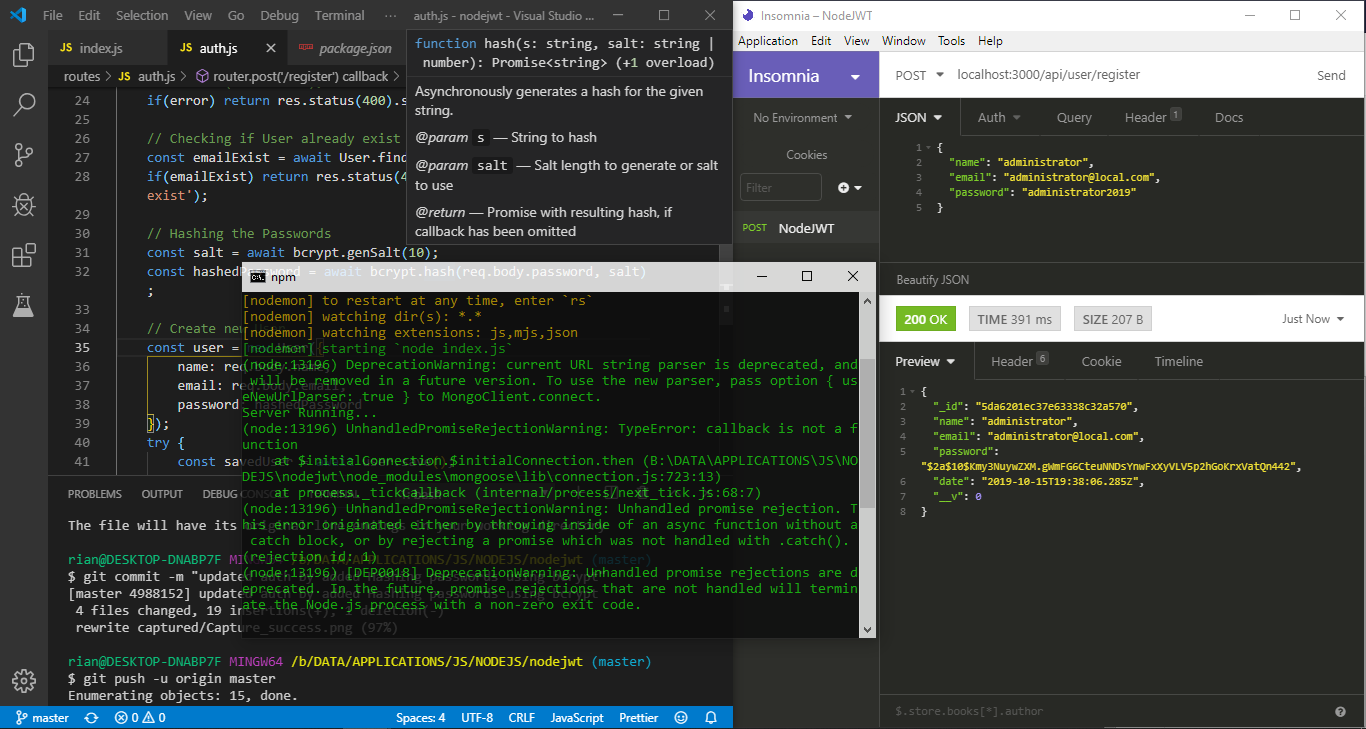
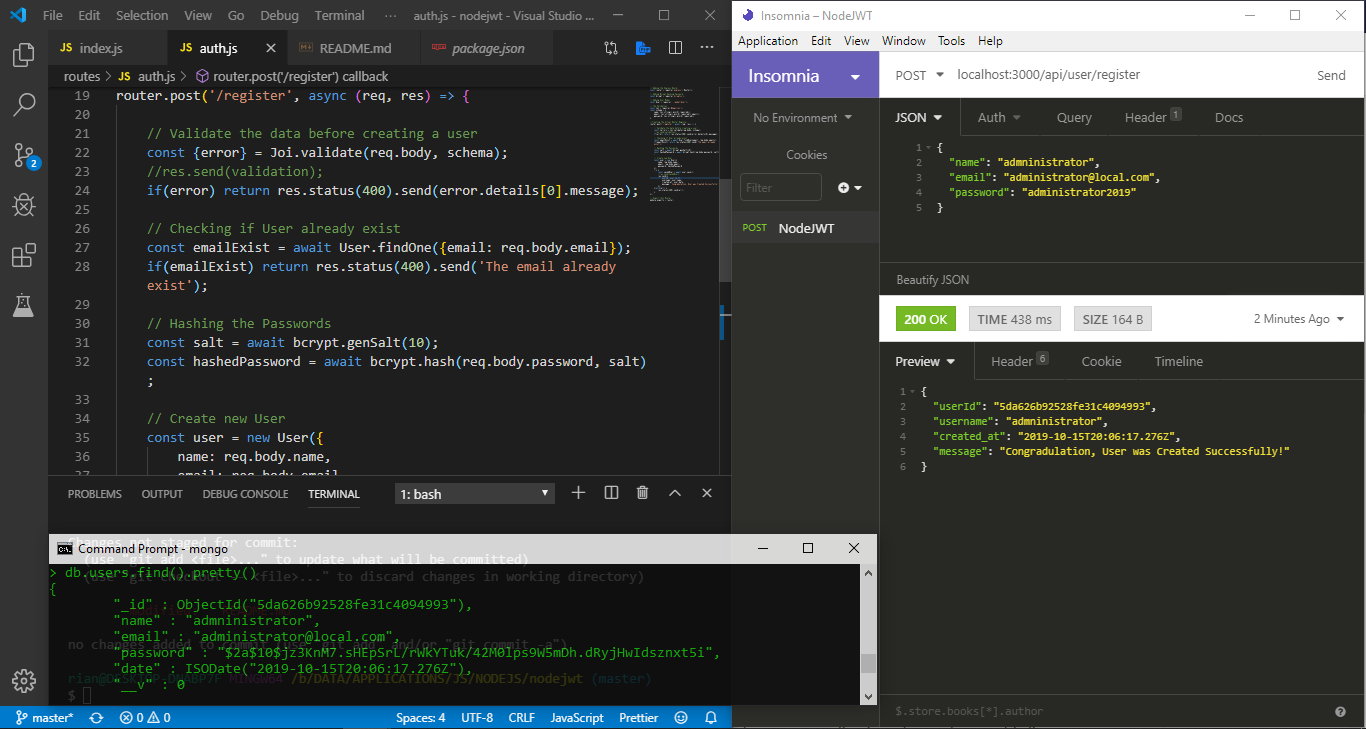
added capture screen, modified json respon when rest-client success to register

diff --git a/routes/auth.js b/routes/auth.js
@@ -39,7 +39,13 @@ router.post('/register', async (req, res) => {
     });
     try {
         const savedUser = await user.save();
-        res.send(savedUser);
+        //res.send(savedUser);
+        res.send({
+            userId: user.id,
+            username: user.name,
+            created_at: user.date,
+            message: 'Congradulation, User was Created Successfully!'
+        });
     }catch(err) {
         res.status(400).send(err);
     }

diff --git a/README.md b/README.md
@@ -15,24 +15,23 @@ Feel free to download or clone this.
       - npm install
 
 if you want to automatically restarting the node application when file changes in the directory 
-are detectedyou then can add more dependencies like Nodemon & save it into devDependencies
+are detected you then can add dependencies like Nodemon & save it into devDependencies
       
-      using NPM
       - npm install -D nodemon
       
-or you can install nodemon globally on your computer so you can access it anywhere on your terminal
+or you can install nodemon globally on your computer so you can access it anywhere on your terminal/command
 
       - npm install nodemon -g
 
 ## Run Application
 
-before run the application after install nodemon as a dev-dependencies into your application please change this line on your package.json file
+Before you run the application after install nodemon as a dev-dependencies into your application please change the line on your package.json file with this code
 
       "scripts": {
             "start": "nodemon index.js"
       },
 
-after you do that, then you can open the command and typing :
+after you do that, then you can open the terminal/command and typing :
 
       npm start
 
